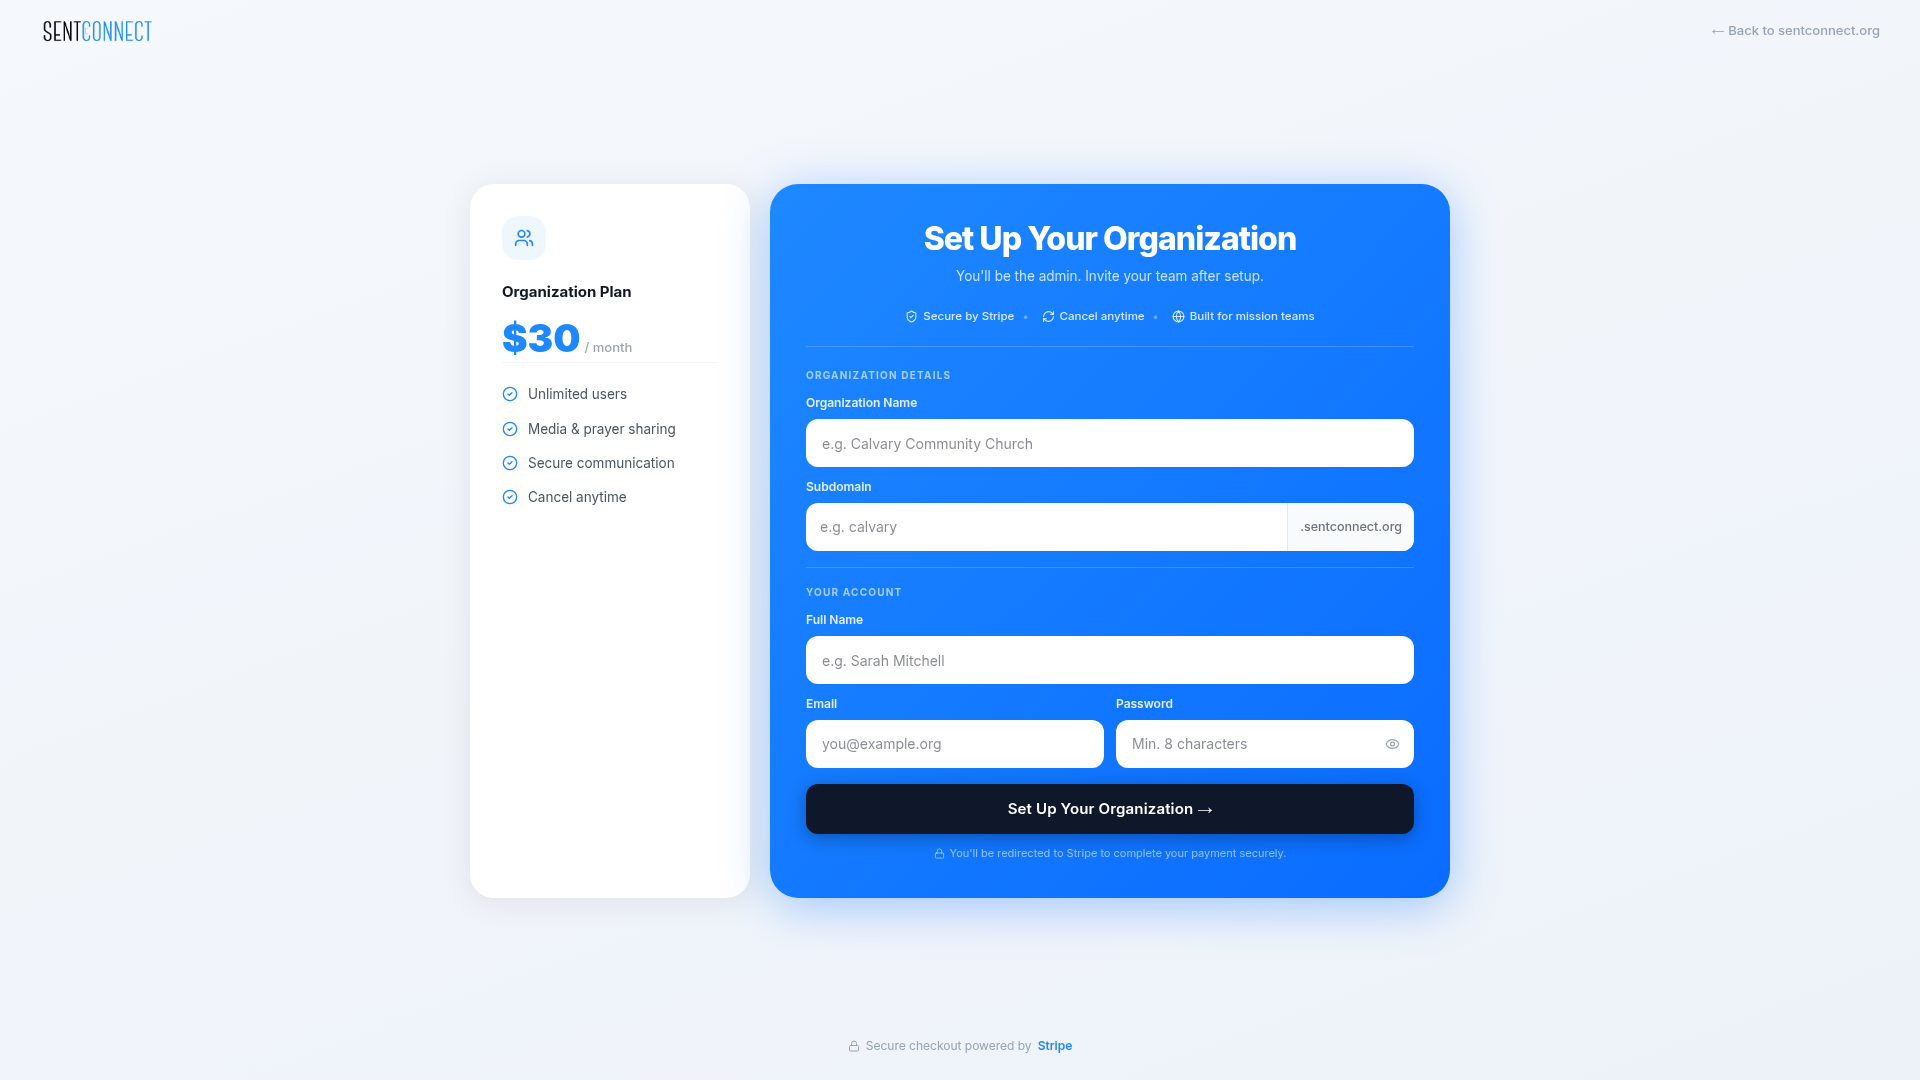
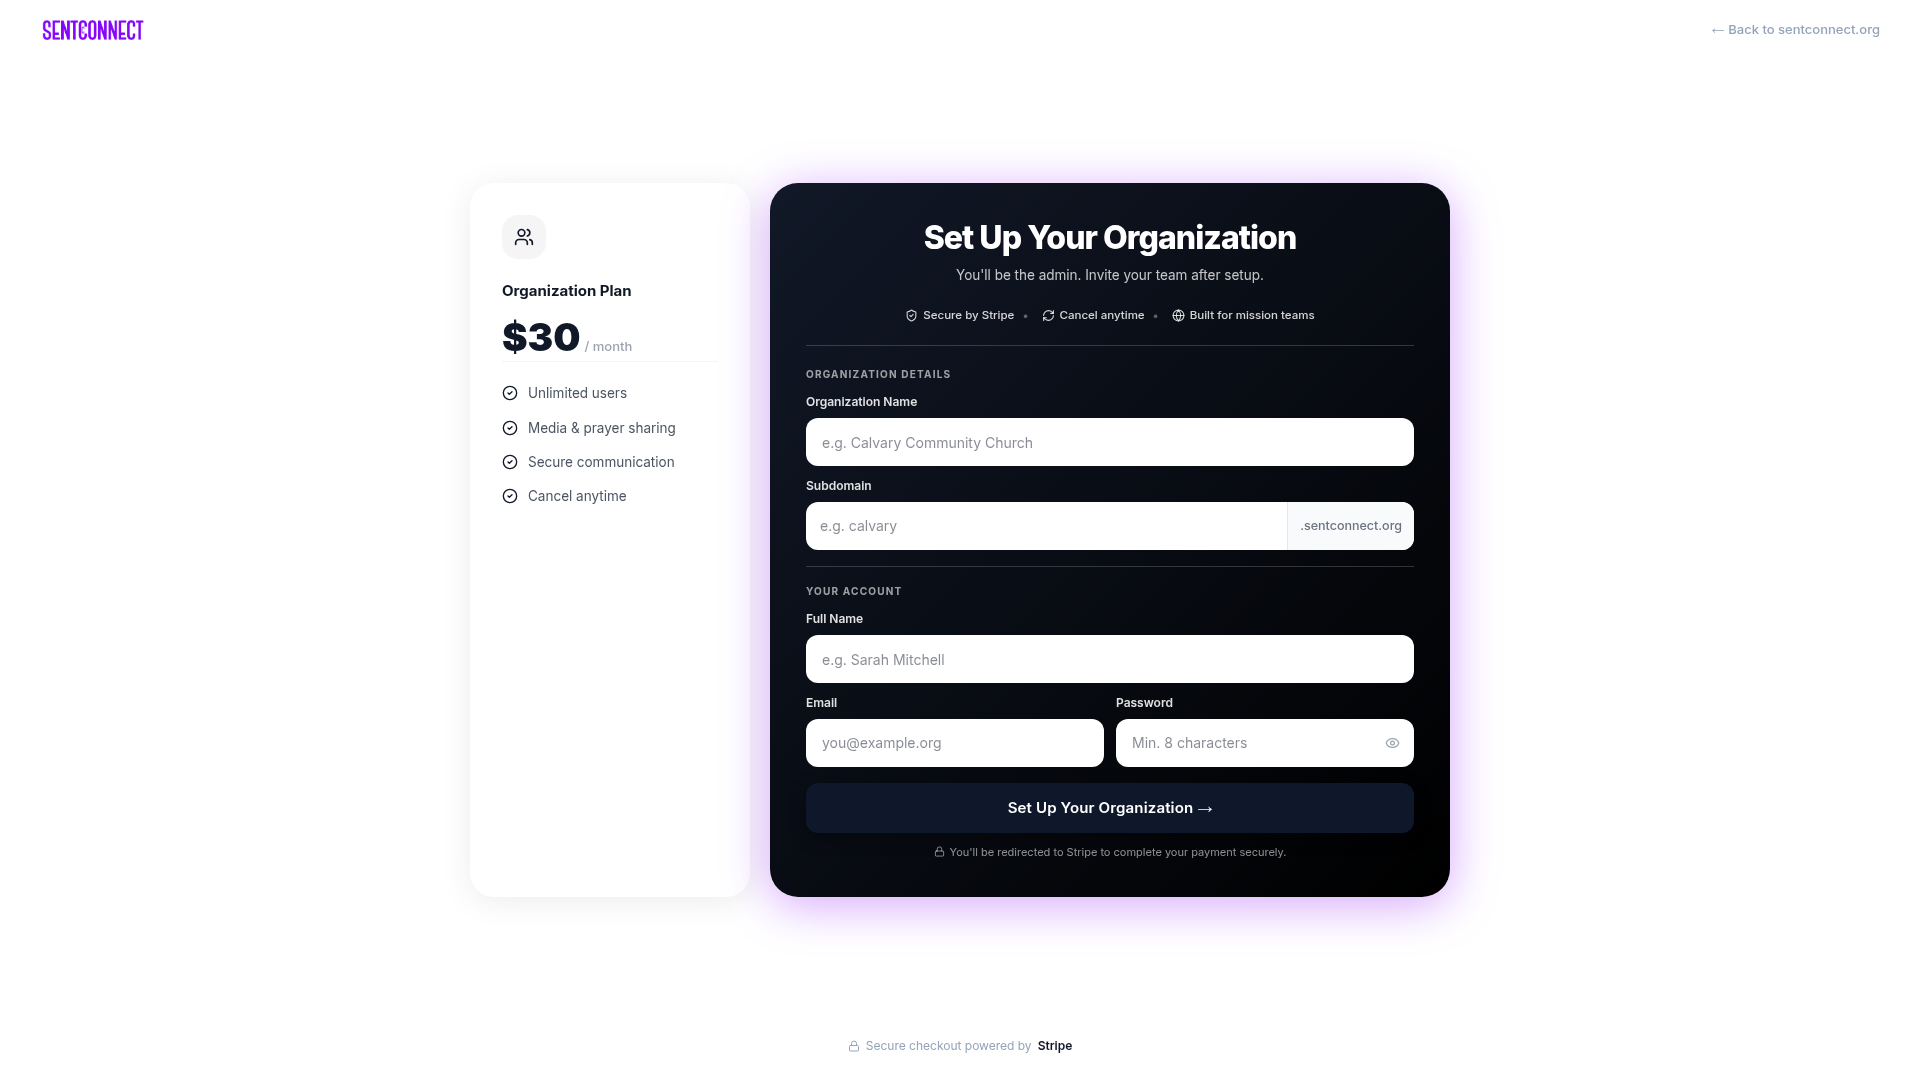
Update signup page to use purple gradient and teal accents
Refactor signup page styling, replacing near-black gradients with purple (#6B21A8 → #4A00E0), updating color constants, and styling the submit button and plan card elements with teal (#10B981) and purple accents respectively.

Replit-Commit-Author: Agent
Replit-Commit-Session-Id: 67703e95-de7f-4580-995f-84446d52c419
Replit-Commit-Checkpoint-Type: full_checkpoint
Replit-Commit-Event-Id: cbd4514b-1a32-4fff-84ae-8a4d3270fff0
Replit-Commit-Screenshot-Url: https://storage.googleapis.com/screenshot-production-us-central1/ee3a6125-4ede-4b8c-9bf0-800e83365df3/67703e95-de7f-4580-995f-84446d52c419/Y0qAFrw
Replit-Helium-Checkpoint-Created: true

diff --git a/artifacts/mission-reports/src/pages/signup.tsx b/artifacts/mission-reports/src/pages/signup.tsx
@@ -9,8 +9,10 @@ import {
 import { useLogo } from "@/providers/logo-provider";
 import { extractHostnameOrgSlug, getOrgRoutingContext } from "@/lib/org";
 
-const NAVY = "#0F172A";
-const BLUE = "#111827";
+const PURPLE    = "#6B21A8";
+const PURPLE_MID = "#4A00E0";
+const TEAL      = "#10B981";
+const TEAL_DARK = "#059669";
 
 const FEATURES = [
   "Unlimited users",
@@ -169,15 +171,15 @@ export default function Signup() {
           flex-direction: column;
         }
 
-        /* ── Right blue panel ── */
+        /* ── Right purple panel ── */
         .su-form-panel {
           flex: 1;
           display: flex;
           flex-direction: column;
           padding: 36px;
           border-radius: 28px;
-          background: linear-gradient(135deg, #111827 0%, #000000 100%);
-          box-shadow: 0 8px 48px rgba(135,5,250,0.35);
+          background: linear-gradient(135deg, #6B21A8 0%, #4A00E0 100%);
+          box-shadow: 0 8px 48px rgba(107,33,168,0.45);
         }
 
         /* ── Email + Password row ── */
@@ -264,13 +266,13 @@ export default function Signup() {
           {/* LEFT — Plan card (hidden on mobile/tablet) */}
           <div className="su-plan">
             <div style={{ width: 44, height: 44, borderRadius: 16, background: "#F5F5F5", display: "flex", alignItems: "center", justifyContent: "center", marginBottom: 20 }}>
-              <Users style={{ width: 20, height: 20, color: BLUE }} />
+              <Users style={{ width: 20, height: 20, color: PURPLE }} />
             </div>
 
             <p style={{ fontSize: 15, fontWeight: 700, color: "#111827", marginBottom: 14 }}>Organization Plan</p>
 
             <div style={{ display: "flex", alignItems: "baseline", gap: 4, marginBottom: 4 }}>
-              <span style={{ fontSize: "2.4rem", fontWeight: 900, lineHeight: 1, color: BLUE }}>$30</span>
+              <span style={{ fontSize: "2.4rem", fontWeight: 900, lineHeight: 1, color: PURPLE }}>$30</span>
               <span style={{ fontSize: 13, color: "#9CA3AF", fontWeight: 500 }}>/ month</span>
             </div>
 
@@ -279,7 +281,7 @@ export default function Signup() {
             <div style={{ display: "flex", flexDirection: "column", gap: 12 }}>
               {FEATURES.map(f => (
                 <div key={f} style={{ display: "flex", alignItems: "center", gap: 10 }}>
-                  <CheckCircle2 style={{ width: 16, height: 16, flexShrink: 0, color: BLUE }} />
+                  <CheckCircle2 style={{ width: 16, height: 16, flexShrink: 0, color: PURPLE }} />
                   <span style={{ fontSize: 13.5, color: "#4B5563" }}>{f}</span>
                 </div>
               ))}
@@ -461,24 +463,24 @@ export default function Signup() {
                   style={{
                     width: "100%",
                     height: 50,
-                    background: submitting ? "#1E293B" : NAVY,
+                    background: submitting ? TEAL_DARK : TEAL,
                     color: "#fff",
-                    fontWeight: 600,
+                    fontWeight: 700,
                     fontSize: 15,
                     border: "none",
-                    borderRadius: 12,
+                    borderRadius: 999,
                     cursor: submitting ? "not-allowed" : "pointer",
                     display: "flex",
                     alignItems: "center",
                     justifyContent: "center",
                     gap: 8,
                     opacity: submitting ? 0.75 : 1,
-                    boxShadow: "0 4px 18px rgba(0,0,0,0.3)",
+                    boxShadow: "0 4px 18px rgba(16,185,129,0.45)",
                     letterSpacing: "0.01em",
                     transition: "background .15s",
                   }}
-                  onMouseEnter={e => { if (!submitting) e.currentTarget.style.background = "#1E293B"; }}
-                  onMouseLeave={e => { if (!submitting) e.currentTarget.style.background = NAVY; }}
+                  onMouseEnter={e => { if (!submitting) e.currentTarget.style.background = TEAL_DARK; }}
+                  onMouseLeave={e => { if (!submitting) e.currentTarget.style.background = TEAL; }}
                 >
                   {submitting
                     ? <><Loader2 style={{ width: 16, height: 16 }} className="animate-spin" /> Redirecting to payment…</>
@@ -499,7 +501,7 @@ export default function Signup() {
       {/* Bottom stripe note */}
       <div className="su-stripe-note">
         <Lock style={{ width: 12, height: 12 }} />
-        Secure checkout powered by <span style={{ fontWeight: 600, color: BLUE }}>Stripe</span>
+        Secure checkout powered by <span style={{ fontWeight: 600, color: PURPLE }}>Stripe</span>
       </div>
     </div>
   );
